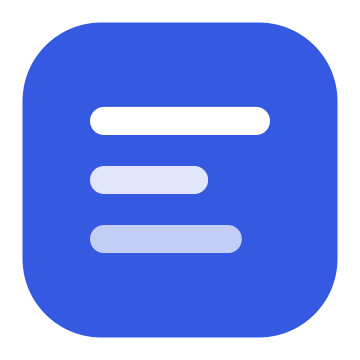
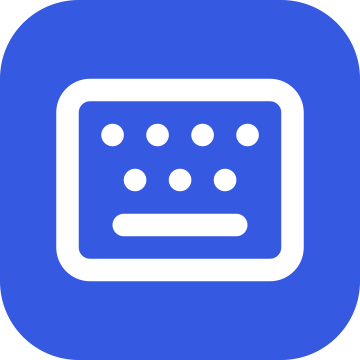
fix(ui): polish palettes and panel to match host styling
- footer: proper vertical padding, 20px keycaps, wider item gaps
- inputs: 1px border with business-blue focus (no glow ring)
- typography: host weights (title 20/500, rows 14/400)
- popups: opaque surface over the menu tint (no see-through), fixed heights,
  rounded scrollbar, 10-row lists, no clipped half-row
- icons: Lucide keyboard sidebar glyph + raster package icon; all command
  tiles now Lucide (ISC), attribution added to README
- system shortcuts: reset is now an icon left of the keys with a CSS tooltip

diff --git a/client.js b/client.js
@@ -375,8 +375,8 @@ window.__ModuleLoader__.load({
         labelKey: 'action.newSession',
         impl: 'uiWorkspace.startSession()',
         run: (d) => { try { d.ctx.uiWorkspace.startSession(); } catch (error) { console.error('[shortcut-ext] startSession failed', error); } }
-      }
-    ];
+      },
+   ];
 
     const ACTION_BY_ID = new Map(ACTIONS.map((action) => [action.id, action]));
 
@@ -497,7 +497,7 @@ window.__ModuleLoader__.load({
           },
           {}
         ]
-      }
+      },
     ];
 
     const COMMAND_IDS = COMMANDS.map((command) => command.id);
@@ -507,12 +507,13 @@ window.__ModuleLoader__.load({
     /* ------------------------------------------------------------------ */
 
     const CSS = [
-      /* Palettes: same material as the host's native popup (menu surface, centered) */
+      /* Palettes: menu-toned surface over an opaque base (no see-through) */
       '.dqs-backdrop{position:fixed;inset:0;z-index:1200;display:flex;align-items:center;justify-content:center;',
       'background:rgba(0,0,0,.32);}',
       '.dqs-palette{width:min(720px,calc(100vw - 48px));max-height:min(70vh,660px);display:flex;flex-direction:column;',
-      'overflow:hidden;background:var(--dsw-specific-menu,var(--dsw-alias-bg-overlay,var(--dsw-alias-bg-layer-1)));',
-      'backdrop-filter:var(--dsw-menu-backdrop-filter,blur(20px));-webkit-backdrop-filter:var(--dsw-menu-backdrop-filter,blur(20px));',
+      'overflow:hidden;background-color:var(--dsw-alias-bg-layer-1,var(--dsw-alias-bg-overlay));',
+      'background-image:linear-gradient(var(--dsw-specific-menu,var(--dsw-alias-bg-overlay)),',
+      'var(--dsw-specific-menu,var(--dsw-alias-bg-overlay)));',
       'border:.5px solid var(--dsw-alias-border-l1);border-radius:var(--dsw-radius-lg,14px);',
       'box-shadow:var(--dsw-elevation-prominent,0 12px 32px rgba(0,0,0,.28));color:var(--dsw-alias-label-primary);}',
       '.dqs-paletteHead{display:flex;align-items:center;justify-content:space-between;gap:12px;padding:16px 18px 10px;}',
@@ -522,18 +523,25 @@ window.__ModuleLoader__.load({
       '.dqs-closeBtn:hover{background:var(--dsw-alias-interactive-bg-hover,var(--dsw-alias-bg-layer-2));',
       'color:var(--dsw-alias-label-primary);}',
       '.dqs-input{width:100%;box-sizing:border-box;height:40px;padding:0 12px 0 34px;',
-      'border:none;border-radius:10px;background:var(--dsw-alias-bg-layer-2);',
-      'color:var(--dsw-alias-label-primary);font-size:13px;outline:none;}',
+      'border:1px solid var(--dsw-alias-border-l1);border-radius:8px;background:var(--dsw-alias-bg-layer-2);',
+      'color:var(--dsw-alias-label-primary);font-size:13px;outline:none;transition:border-color .12s;}',
       '.dqs-input::placeholder{color:var(--dsw-alias-label-secondary);opacity:.8;}',
-      '.dqs-input:focus{box-shadow:0 0 0 2px var(--dsw-focus-ring-color,var(--dsw-alias-brand-primary));}',
+      '.dqs-input:hover:not(:focus){border-color:var(--dsw-alias-border-l2,var(--dsw-alias-border-l1));}',
+      '.dqs-input:focus{border-color:var(--dsw-alias-state-business-primary);}',
       '.dqs-searchWrap{position:relative;margin:0 14px 10px;}',
       '.dqs-searchIcon{position:absolute;left:11px;top:50%;transform:translateY(-50%);',
       'color:var(--dsw-alias-label-secondary);display:flex;pointer-events:none;}',
-      '.dqs-list{height:340px;overflow-y:auto;padding:2px 8px 8px;}',
-      '.dqs-columns{display:flex;height:340px;min-height:0;}',
-      '.dqs-columns .dqs-list{flex:1 1 auto;height:100%;min-width:0;}',
+      '.dqs-list{height:360px;overflow-y:auto;padding:2px 8px 6px;}',
+      '.dqs-list::-webkit-scrollbar{width:8px;height:8px;}',
+      '.dqs-list::-webkit-scrollbar-track{background:transparent;}',
+      '.dqs-list::-webkit-scrollbar-thumb{background:var(--dsw-alias-scrollbar-bg-l2,var(--dsw-alias-border-l2));',
+      'border-radius:999px;}',
+      '.dqs-list::-webkit-scrollbar-thumb:hover{background:var(--dsw-alias-scrollbar-hover-l2,var(--dsw-alias-border-l1));}',
+      '.dqs-columns{display:flex;height:360px;min-height:0;}',
+      '.dqs-columns .dqs-list{flex:1 1 auto;height:100%;min-width:0;border-right:none;}',
       '.dqs-paletteWide{width:min(880px,calc(100vw - 48px));}',
-      '.dqs-row{display:flex;align-items:center;gap:8px;padding:8px 10px;border-radius:8px;cursor:pointer;font-size:14px;}',
+      '.dqs-row{display:flex;align-items:center;gap:8px;padding:8px 10px;border-radius:8px;cursor:pointer;',
+      'font-size:14px;min-height:36px;box-sizing:border-box;}',
       '.dqs-row[data-active="true"]{background:var(--dsw-alias-interactive-bg-hover,var(--dsw-alias-bg-layer-2));}',
       '.dqs-rowName{flex:0 1 auto;white-space:nowrap;overflow:hidden;text-overflow:ellipsis;}',
       '.dqs-rowProvider{flex:1 1 auto;min-width:0;color:var(--dsw-alias-label-secondary);font-size:12px;',
@@ -561,11 +569,12 @@ window.__ModuleLoader__.load({
       '.dqs-pinBtn[data-pinned="true"]{color:var(--dsw-alias-brand-primary);}',
       '.dqs-status{padding:10px 16px;font-size:12px;color:var(--dsw-alias-label-secondary);}',
       '.dqs-statusError{color:var(--dsw-alias-state-error-primary);}',
-      '.dqs-footer{padding:9px 16px;font-size:11px;color:var(--dsw-alias-label-secondary);',
-      'border-top:.5px solid var(--dsw-alias-border-l1);display:flex;align-items:center;gap:6px 18px;flex-wrap:wrap;}',
-      '.dqs-hintItem{display:inline-flex;align-items:center;gap:6px;white-space:nowrap;}',
-      '.dqs-kbd{border:none;background:var(--dsw-alias-bg-layer-2);border-radius:4px;',
-      'padding:1px 6px;min-width:18px;box-sizing:border-box;text-align:center;font-size:10px;',
+      '.dqs-footer{padding:12px 18px 13px;font-size:12px;color:var(--dsw-alias-label-secondary);',
+      'border-top:.5px solid var(--dsw-alias-border-l1);display:flex;align-items:center;gap:8px 22px;flex-wrap:wrap;}',
+      '.dqs-hintItem{display:inline-flex;align-items:center;gap:7px;white-space:nowrap;}',
+      '.dqs-kbd{border:.5px solid var(--dsw-alias-border-l2,var(--dsw-alias-border-l1));',
+      'background:var(--dsw-alias-bg-layer-1);border-radius:5px;',
+      'min-width:22px;height:20px;padding:0 7px;box-sizing:border-box;text-align:center;font-size:11px;',
       'color:var(--dsw-alias-label-secondary);display:inline-flex;align-items:center;justify-content:center;}',
       '.dqs-rowDot{flex:none;width:8px;height:8px;border-radius:50%;background:var(--dsw-alias-state-idle-primary);opacity:.45;}',
       '.dqs-rowDot[data-running="true"]{background:var(--dsw-alias-state-success-primary);opacity:1;}',
@@ -576,7 +585,7 @@ window.__ModuleLoader__.load({
       'flex-direction:column;align-items:center;gap:26px;padding:0 clamp(24px,4vw,48px) 48px;overflow:auto;}',
       '.dqs-page>*{width:100%;max-width:960px;}',
       '.dqs-pageHead{padding-top:36px;margin-bottom:-6px;}',
-      '.dqs-pageTitle{font-size:26px;font-weight:600;margin:0 0 6px;}',
+      '.dqs-pageTitle{font-size:20px;font-weight:500;line-height:28px;margin:0 0 6px;}',
       '.dqs-pageSub{font-size:13px;color:var(--dsw-alias-label-secondary);margin:0;}',
       '.dqs-toolbar{display:flex;align-items:center;gap:16px;flex-wrap:wrap;}',
       '.dqs-tabs{display:flex;gap:2px;padding:3px;border-radius:9px;background:var(--dsw-alias-bg-layer-2);}',
@@ -591,9 +600,10 @@ window.__ModuleLoader__.load({
       '.dqs-linkBtn:hover{text-decoration:underline;}',
       '.dqs-search{width:220px;height:32px;padding:0 12px;box-sizing:border-box;border-radius:8px;',
       'border:1px solid var(--dsw-alias-border-l1);background:var(--dsw-alias-bg-layer-2);',
-      'color:var(--dsw-alias-label-primary);font-size:13px;outline:none;}',
+      'color:var(--dsw-alias-label-primary);font-size:13px;outline:none;transition:border-color .12s;}',
       '.dqs-search::placeholder{color:var(--dsw-alias-label-secondary);opacity:.7;}',
-      '.dqs-search:focus{border-color:var(--dsw-alias-brand-primary);}',
+      '.dqs-search:hover:not(:focus){border-color:var(--dsw-alias-border-l2,var(--dsw-alias-border-l1));}',
+      '.dqs-search:focus{border-color:var(--dsw-alias-state-business-primary);}',
       '.dqs-rows{display:flex;flex-direction:column;}',
       '.dqs-cmdRow{display:flex;align-items:center;gap:16px;padding:14px 2px;',
       'border-bottom:.5px solid var(--dsw-alias-border-l2,var(--dsw-alias-border-l1));transition:opacity .15s;}',
@@ -601,13 +611,13 @@ window.__ModuleLoader__.load({
       '.dqs-tile{flex:none;width:48px;height:48px;border-radius:12px;display:flex;align-items:center;justify-content:center;',
       'background:var(--dsw-alias-bg-layer-2);color:var(--dsw-alias-brand-primary);border:1px solid var(--dsw-alias-border-l1);}',
       '.dqs-cmdInfo{flex:1 1 auto;min-width:0;display:flex;flex-direction:column;gap:3px;}',
-      '.dqs-cmdName{font-size:15px;font-weight:600;white-space:nowrap;overflow:hidden;text-overflow:ellipsis;}',
-      '.dqs-cmdImpl{font-size:11.5px;color:var(--dsw-alias-label-secondary);',
+      '.dqs-cmdName{font-size:14px;font-weight:400;line-height:20px;white-space:nowrap;overflow:hidden;text-overflow:ellipsis;}',
+      '.dqs-cmdImpl{font-size:11px;color:var(--dsw-alias-label-secondary);',
       'font-family:ui-monospace,SFMono-Regular,Menlo,Consolas,monospace;white-space:nowrap;overflow:hidden;text-overflow:ellipsis;}',
       '.dqs-cmdRight{flex:none;display:flex;align-items:center;gap:14px;}',
       '.dqs-cmdKeys{display:flex;align-items:center;gap:3px;}',
       '.dqs-keycap{min-width:20px;height:20px;padding:0 5px;box-sizing:border-box;display:inline-flex;align-items:center;',
-      'justify-content:center;border:1px solid var(--dsw-alias-border-l2,var(--dsw-alias-border-l1));border-radius:5px;',
+      'justify-content:center;border:.5px solid var(--dsw-alias-border-l2,var(--dsw-alias-border-l1));border-radius:5px;',
       'font-size:11px;line-height:1;color:var(--dsw-alias-label-secondary);',
       'background:var(--dsw-alias-bg-layer-2);white-space:nowrap;}',
       '.dqs-keycapNone{border:none;background:none;font-size:11px;color:var(--dsw-alias-label-secondary);opacity:.7;}',
@@ -666,7 +676,7 @@ window.__ModuleLoader__.load({
       '.dqs-permCard{border:1px solid var(--dsw-alias-border-l1);border-radius:12px;',
       'background:var(--dsw-alias-bg-layer-1);padding:16px 18px;}',
       '.dqs-sectionHead{display:flex;align-items:baseline;justify-content:space-between;gap:12px;margin-bottom:10px;}',
-      '.dqs-sectionTitle{font-size:13px;font-weight:600;}',
+      '.dqs-sectionTitle{font-size:14px;font-weight:500;line-height:20px;}',
       '.dqs-chips{display:flex;gap:8px;flex-wrap:wrap;}',
       '.dqs-permChip{display:inline-flex;align-items:center;gap:6px;border:1px solid var(--dsw-alias-border-l2,var(--dsw-alias-border-l1));',
       'border-radius:999px;padding:5px 14px;font-size:12px;cursor:pointer;background:transparent;color:var(--dsw-alias-label-secondary);}',
@@ -681,7 +691,17 @@ window.__ModuleLoader__.load({
       '.dqs-expand{padding:2px 2px 18px 64px;}',
       '.dqs-sysRow{display:flex;align-items:center;gap:12px;padding:12px 2px;',
       'border-bottom:.5px solid var(--dsw-alias-border-l2,var(--dsw-alias-border-l1));}',
-      '.dqs-sysLabel{flex:1 1 auto;min-width:0;font-size:14px;white-space:nowrap;overflow:hidden;text-overflow:ellipsis;}',
+      '.dqs-sysLabel{flex:1 1 auto;min-width:0;font-size:14px;font-weight:400;white-space:nowrap;overflow:hidden;text-overflow:ellipsis;}',
+      '.dqs-tip{position:relative;}',
+      '.dqs-tip:hover::after{content:attr(data-tip);position:absolute;bottom:calc(100% + 6px);left:50%;',
+      'transform:translateX(-50%);background:var(--dsw-alias-bg-overlay,var(--dsw-alias-bg-layer-1));',
+      'border:.5px solid var(--dsw-alias-border-l1);border-radius:6px;padding:3px 8px;font-size:11px;',
+      'line-height:16px;color:var(--dsw-alias-label-primary);white-space:nowrap;z-index:20;',
+      'box-shadow:var(--dsw-elevation-prominent,0 6px 16px rgba(0,0,0,.18));pointer-events:none;}',
+      '.dqs-iconBtn{flex:none;border:none;background:none;cursor:pointer;display:flex;padding:4px;',
+      'border-radius:6px;color:var(--dsw-alias-label-secondary);}',
+      '.dqs-iconBtn:hover{color:var(--dsw-alias-label-primary);background:var(--dsw-alias-interactive-bg-hover,var(--dsw-alias-bg-layer-2));}',
+      '.dqs-iconBtn[data-hidden="true"]{visibility:hidden;pointer-events:none;}',
       '.dqs-sysFixed{flex:none;font-size:11px;color:var(--dsw-alias-label-secondary);',
       'border:1px solid var(--dsw-alias-border-l1);border-radius:999px;padding:1px 8px;}'
     ].join('');
@@ -1218,16 +1238,44 @@ window.__ModuleLoader__.load({
       }));
     }
 
+
+    /** Sidebar glyph: Lucide `keyboard` (ISC) - https://lucide.dev/icons/keyboard */
     function PanelIcon({ size, active }) {
       const px = size ?? 16;
-      const bar = (y, width) => h('rect', { x: 2, y, width, height: 2.4, rx: 1.2, fill: 'currentColor' });
+      const dot = (d) => h('path', { key: d, d });
       return h('svg', {
-        width: px, height: px, viewBox: '0 0 16 16', 'aria-hidden': true,
-        style: { display: 'block', color: active ? 'var(--dsw-alias-brand-primary)' : undefined }
+        width: px,
+        height: px,
+        viewBox: '0 0 24 24',
+        fill: 'none',
+        stroke: 'currentColor',
+        strokeWidth: 2,
+        strokeLinecap: 'round',
+        strokeLinejoin: 'round',
+        'aria-hidden': true,
+        style: { display: 'block', color: active ? 'var(--dsw-alias-state-business-primary)' : undefined }
       },
-        bar(2.6, 12),
-        bar(6.8, 8),
-        bar(11, 10));
+        h('rect', { key: 'frame', x: 2, y: 4, width: 20, height: 16, rx: 2 }),
+        dot('M6 8h.01'),
+        dot('M10 8h.01'),
+        dot('M14 8h.01'),
+        dot('M18 8h.01'),
+        dot('M8 12h.01'),
+        dot('M12 12h.01'),
+        dot('M16 12h.01'),
+        dot('M7 16h10'));
+    }
+
+
+    /** Lucide `rotate-ccw` (ISC) - restore a command's default binding. */
+    function ResetIcon() {
+      return h('svg', {
+        width: 14, height: 14, viewBox: '0 0 24 24', fill: 'none', stroke: 'currentColor',
+        strokeWidth: 2, strokeLinecap: 'round', strokeLinejoin: 'round', 'aria-hidden': true,
+        style: { display: 'block' }
+      },
+        h('path', { d: 'M3 12a9 9 0 1 0 9-9 9.75 9.75 0 0 0-6.74 2.74L3 8' }),
+        h('path', { d: 'M3 3v5h5' }));
     }
 
     /* ------------------------------------------------------------------ */
@@ -1650,63 +1698,40 @@ window.__ModuleLoader__.load({
         row.keys.map((cap, index) => h('span', { key: index, className: 'dqs-keycap' }, cap)));
     }
 
+    /**
+     * Command tile glyphs: Lucide icons (ISC, https://lucide.dev) rendered as
+     * static trusted markup, stroked with the current text color.
+     */
+    const COMMAND_GLYPHS = {
+      'open-model-palette': '<rect width="16" height="16" x="4" y="4" rx="2" /> <rect width="6" height="6" x="9" y="9" rx="1" /> <path d="M15 2v2" /> <path d="M15 20v2" /> <path d="M2 15h2" /> <path d="M2 9h2" /> <path d="M20 15h2" /> <path d="M20 9h2" /> <path d="M9 2v2" /> <path d="M9 20v2" />',
+      'open-session-palette': '<path d="M14 9a2 2 0 0 1-2 2H6l-4 4V4a2 2 0 0 1 2-2h8a2 2 0 0 1 2 2z" /> <path d="M18 9h2a2 2 0 0 1 2 2v11l-4-4h-6a2 2 0 0 1-2-2v-1" />',
+      'next-session': '<path d="M5 12h14" /> <path d="m12 5 7 7-7 7" />',
+      'prev-session': '<path d="m12 19-7-7 7-7" /> <path d="M19 12H5" />',
+      'jump-completed': '<path d="m8 11 2 2 4-4" /> <circle cx="11" cy="11" r="8" /> <path d="m21 21-4.3-4.3" />',
+      'focus-composer': '<path d="M5 4h1a3 3 0 0 1 3 3 3 3 0 0 1 3-3h1" /> <path d="M13 20h-1a3 3 0 0 1-3-3 3 3 0 0 1-3 3H5" /> <path d="M5 16H4a2 2 0 0 1-2-2v-4a2 2 0 0 1 2-2h1" /> <path d="M13 8h7a2 2 0 0 1 2 2v4a2 2 0 0 1-2 2h-7" /> <path d="M9 7v10" />',
+      'toggle-permission': '<path d="M20 13c0 5-3.5 7.5-7.66 8.95a1 1 0 0 1-.67-.01C7.5 20.5 4 18 4 13V6a1 1 0 0 1 1-1c2 0 4.5-1.2 6.24-2.72a1.17 1.17 0 0 1 1.52 0C14.51 3.81 17 5 19 5a1 1 0 0 1 1 1z" />',
+      'set-permission': '<path d="M20 13c0 5-3.5 7.5-7.66 8.95a1 1 0 0 1-.67-.01C7.5 20.5 4 18 4 13V6a1 1 0 0 1 1-1c2 0 4.5-1.2 6.24-2.72a1.17 1.17 0 0 1 1.52 0C14.51 3.81 17 5 19 5a1 1 0 0 1 1 1z" /> <path d="M12 22V2" />',
+      'toggle-sidebar': '<rect width="18" height="18" x="3" y="3" rx="2" /> <path d="M9 3v18" />',
+      'show-conversation': '<path d="M7.9 20A9 9 0 1 0 4 16.1L2 22Z" />',
+      'show-deck': '<rect width="7" height="7" x="3" y="3" rx="1" /> <rect width="7" height="7" x="14" y="3" rx="1" /> <rect width="7" height="7" x="14" y="14" rx="1" /> <rect width="7" height="7" x="3" y="14" rx="1" />',
+      'new-session': '<path d="M21 15a2 2 0 0 1-2 2H7l-4 4V5a2 2 0 0 1 2-2h14a2 2 0 0 1 2 2z" /> <path d="M12 7v6" /> <path d="M9 10h6" />'
+    };
+
     function CommandGlyph({ id }) {
-      const common = {
-        width: 20, height: 20, viewBox: '0 0 16 16', 'aria-hidden': true, style: { display: 'block' }
-      };
-      switch (id) {
-        case 'open-model-palette':
-          return h('svg', common, h('path', {
-            d: 'M9.2 1.5 4 9.2h3L6.2 14.5 12 6.6H8.7l.5-5.1z', fill: 'currentColor'
-          }));
-        case 'open-session-palette':
-          return h('svg', common, h('path', {
-            d: 'M2.5 4h11M2.5 8h7M2.5 12h9', stroke: 'currentColor', strokeWidth: 1.6,
-            strokeLinecap: 'round', fill: 'none'
-          }));
-        case 'next-session':
-          return h('svg', common, h('path', {
-            d: 'M3 8h9M8.5 4 12.5 8l-4 4', stroke: 'currentColor', strokeWidth: 1.6,
-            strokeLinecap: 'round', strokeLinejoin: 'round', fill: 'none'
-          }));
-        case 'prev-session':
-          return h('svg', common, h('path', {
-            d: 'M13 8H4M7.5 4 3.5 8l4 4', stroke: 'currentColor', strokeWidth: 1.6,
-            strokeLinecap: 'round', strokeLinejoin: 'round', fill: 'none'
-          }));
-        case 'jump-completed':
-          return h('svg', common,
-            h('circle', { cx: 8, cy: 8, r: 5.2, fill: 'none', stroke: 'currentColor', strokeWidth: 1.5 }),
-            h('circle', { cx: 8, cy: 8, r: 1.8, fill: 'currentColor' }));
-        case 'focus-composer':
-          return h('svg', common, h('path', {
-            d: 'M5 2.5h6M8 2.5v11M5 13.5h6', stroke: 'currentColor', strokeWidth: 1.6,
-            strokeLinecap: 'round', fill: 'none'
-          }));
-        case 'toggle-sidebar':
-          return h('svg', common,
-            h('rect', { x: 2, y: 2.5, width: 12, height: 11, rx: 2, fill: 'none', stroke: 'currentColor', strokeWidth: 1.4 }),
-            h('path', { d: 'M6 2.5v11', stroke: 'currentColor', strokeWidth: 1.4 }));
-        case 'show-conversation':
-          return h('svg', common, h('path', {
-            d: 'M2.5 3.5h11v7h-6l-3 2.5v-2.5h-2z', fill: 'none', stroke: 'currentColor',
-            strokeWidth: 1.4, strokeLinejoin: 'round'
-          }));
-        case 'show-deck':
-          return h('svg', common, h('path', {
-            d: 'M2.5 4h11M2.5 8h11M2.5 12h11', stroke: 'currentColor', strokeWidth: 1.6,
-            strokeLinecap: 'round', fill: 'none'
-          }));
-        case 'new-session':
-          return h('svg', common, h('path', {
-            d: 'M8 3v10M3 8h10', stroke: 'currentColor', strokeWidth: 1.7, strokeLinecap: 'round', fill: 'none'
-          }));
-        default:
-          return h('svg', common, h('path', {
-            d: 'M8 1.6 12.6 3.4v4.2c0 3.2-2.2 5.2-4.6 6.8-2.4-1.6-4.6-3.6-4.6-6.8V3.4z',
-            fill: 'none', stroke: 'currentColor', strokeWidth: 1.5, strokeLinejoin: 'round'
-          }));
-      }
+      const markup = COMMAND_GLYPHS[id] ?? COMMAND_GLYPHS['toggle-permission'];
+      return h('svg', {
+        width: 20,
+        height: 20,
+        viewBox: '0 0 24 24',
+        fill: 'none',
+        stroke: 'currentColor',
+        strokeWidth: 2,
+        strokeLinecap: 'round',
+        strokeLinejoin: 'round',
+        'aria-hidden': true,
+        style: { display: 'block' },
+        dangerouslySetInnerHTML: { __html: markup }
+      });
     }
 
     function SearchIcon() {
@@ -1919,6 +1944,16 @@ window.__ModuleLoader__.load({
           sysRows.map((row) => {
             return h('div', { key: row.id, className: 'dqs-sysRow' },
               h('span', { className: 'dqs-sysLabel' }, row.label),
+              h('button', {
+                type: 'button',
+                className: 'dqs-iconBtn dqs-tip',
+                'data-tip': t('system.reset'),
+                'aria-label': t('system.reset'),
+                'data-hidden': overrides[row.id] === undefined ? 'true' : 'false',
+                onClick: async () => {
+                  markResult(row.id, await applyEdit({ type: 'reset', id: row.id }));
+                }
+              }, h(ResetIcon)),
               h(KeyRecorder, {
                 ctx,
                 t,
@@ -1927,15 +1962,6 @@ window.__ModuleLoader__.load({
                   markResult(row.id, await applyEdit({ type: 'set', id: row.id, binding }));
                 }
               }),
-              overrides[row.id] !== undefined
-                ? h('button', {
-                  type: 'button',
-                  className: 'dqs-linkBtn',
-                  onClick: async () => {
-                    markResult(row.id, await applyEdit({ type: 'reset', id: row.id }));
-                  }
-                }, t('system.reset'))
-                : null,
               sysIssues[row.id]
                 ? h('span', { className: 'dqs-editorError' }, sysIssues[row.id])
                 : null);
@@ -2280,12 +2306,14 @@ window.__ModuleLoader__.load({
 
         ctx.effect(() => {
           if (typeof document === 'undefined') return undefined;
-          if (document.querySelector('style[data-dqs="1"]')) return undefined;
-          const style = document.createElement('style');
+          // Upgrade an existing tag in place: after a hot reload the old tag is
+          // still attached, and skipping it would keep stale CSS alive.
+          const existing = document.querySelector('style[data-dqs="1"]');
+          const style = existing ?? document.createElement('style');
           style.setAttribute('data-dqs', '1');
           style.textContent = CSS;
-          document.head.appendChild(style);
-          return () => { style.remove(); };
+          if (!existing) document.head.appendChild(style);
+          return () => { if (style.isConnected) style.remove(); };
         }, 'shortcut-ext: styles');
 
         ctx.slots.inject('shell.overlay', () => ctx.slots.register({

diff --git a/README.zh.md b/README.zh.md
@@ -62,6 +62,10 @@ dsh-shortcut-extensions/
 └── icon.svg
 ```
 
+## 图标 / Icons
+
+- 图标：[Lucide](https://lucide.dev)（`keyboard`、`cpu`、`messages-square`、`arrow-left`、`arrow-right`、`search-check`、`text-cursor-input`、`shield`、`shield-half`、`panel-left`、`message-circle`、`layout-grid`、`message-square-plus`，ISC 许可证）。
+
 ## 许可证
 
 [MIT](LICENSE)

diff --git a/README.md b/README.md
@@ -62,6 +62,10 @@ dsh-shortcut-extensions/
 └── icon.svg
 ```
 
+## Icons / 图标
+
+- Icons: [Lucide](https://lucide.dev) — `keyboard`, `cpu`, `messages-square`, `arrow-left`, `arrow-right`, `search-check`, `text-cursor-input`, `shield`, `shield-half`, `panel-left`, `message-circle`, `layout-grid`, `message-square-plus` (ISC License).
+
 ## License
 
 [MIT](LICENSE)
